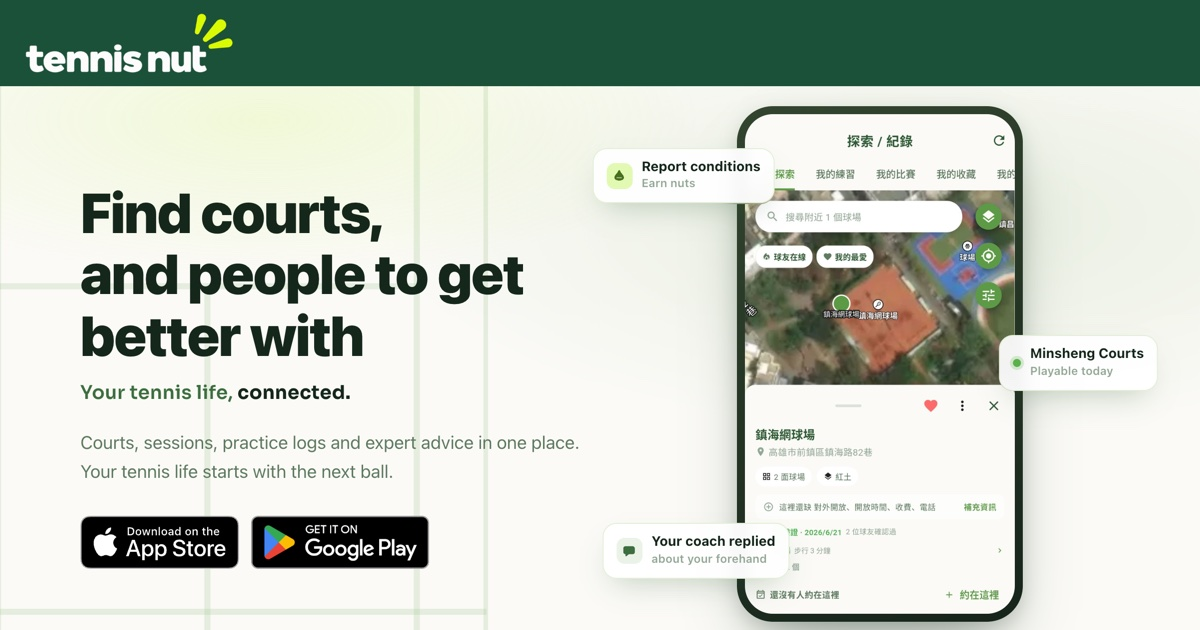
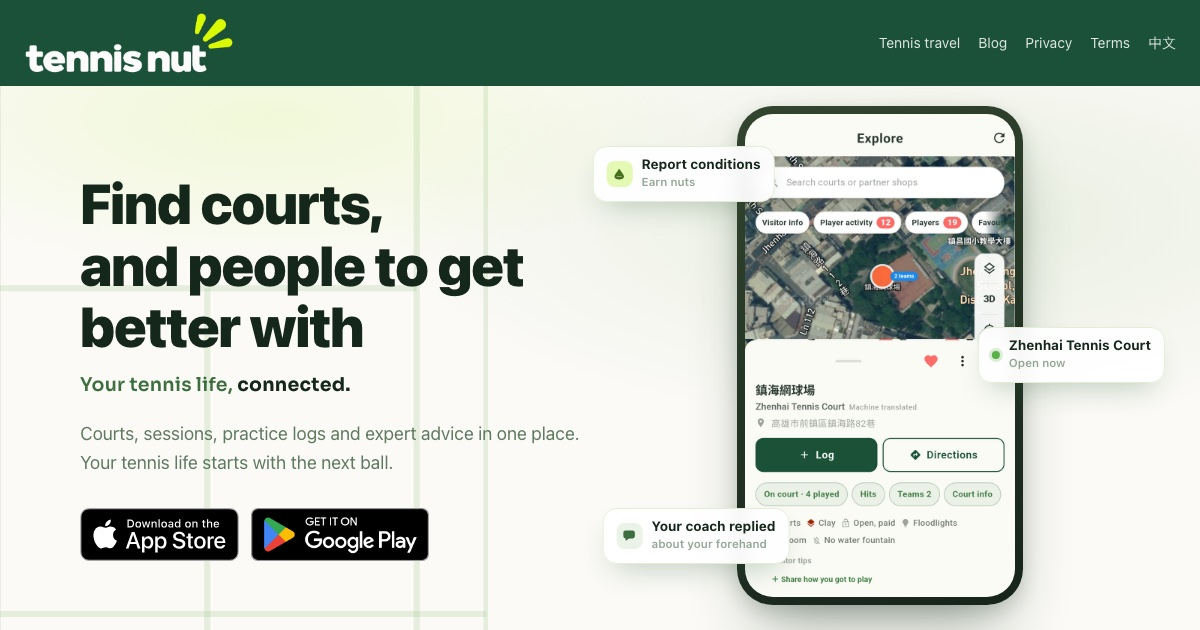
feat(site/en): 英文首頁與 Blog 的 App 截圖換成英文介面（首頁主圖、約球、專家諮詢、護照、沉浸模式、球袋、拍子時數、紀錄、挑戰）；教練中文回覆那張換成諮詢入口；分享縮圖重拍；英文 Blog 可有自己的 en.image
Claude-Session: https://claude.ai/code/session_01FhLZvZNjbSftcCKJHrQPMS

diff --git a/en/index.html b/en/index.html
@@ -1617,8 +1617,8 @@
 
         <div class="hero-device">
           <div class="phone">
-            <img src="/shot-court-map.jpg" width="669" height="1239"
-                 alt="The Tennis Nut court map: pins on satellite imagery, with one court opened — two clay courts, player-verified details, parking three minutes away" />
+            <img src="/shot-court-map-en.jpg" width="720" height="1288"
+                 alt="The Tennis Nut court map on aerial imagery, with Zhenhai Tennis Court opened: two clay courts, open to the public, floodlights, and how many players have been there" />
           </div>
 
           <div class="float f-nut">
@@ -1627,7 +1627,7 @@
           </div>
           <div class="float f-court">
             <span class="dot-live"></span>
-            <span class="tx"><b>Zhenhai Tennis Courts</b><i>Open now</i></span>
+            <span class="tx"><b>Zhenhai Tennis Court</b><i>Open now</i></span>
           </div>
           <div class="float f-coach">
             <span class="ic" aria-hidden="true"><svg><use href="#ic-chat" /></svg></span>
@@ -1882,7 +1882,7 @@
         <div class="show-phone">
           <div>
             <div class="phone">
-              <img src="/shot-hit-create.jpg" width="669" height="1228" loading="lazy"
+              <img src="/shot-hit-create-en.jpg" width="720" height="1327" loading="lazy"
                    alt="Posting a session: time, format, balls and who can see it, all settled before you send" />
             </div>
             <div class="show-cap">
@@ -1894,8 +1894,8 @@
 
         <div class="show-cards">
           <figure class="show-card">
-            <img src="/shot-coach-answer.jpg" width="669" height="486" loading="lazy"
-                 alt="A coach’s reply: generate racket speed through the rotational chain rather than moving the body forward; there is only one contact point that works" />
+            <img src="/shot-consult-en.jpg" width="720" height="487" loading="lazy"
+                 alt="Starting a consultation: pick tennis technique or tennis fitness, and an expert is assigned; an AI recap keeps the advice you got" />
             <figcaption class="show-cap">
               <b>Expert advice</b>
               <span>A written answer for your problem, not a canned tip</span>
@@ -1903,8 +1903,8 @@
           </figure>
 
           <figure class="show-card">
-            <img src="/shot-passport-stats.jpg" width="669" height="1130" loading="lazy"
-                 alt="Tennis stats: 26 practices, 28 hours, 5 matches, a 60% win rate, and court conquest progress" />
+            <img src="/shot-passport-stats-en.jpg" width="720" height="1040" loading="lazy"
+                 alt="The Tennis Nut player card with home court and playing style, above the tennis stats: practices, hours, matches and win rate" />
             <figcaption class="show-cap">
               <b>Passport · Records</b>
               <span>Practices, matches and every court you have conquered</span>

diff --git a/en/blog/2690.html b/en/blog/2690.html
@@ -9,7 +9,7 @@
   <meta property="og:title" content="v1.31 · Immersive mode, gear photos, and hours on every racket · Tennis Nut" />
   <meta property="og:description" content="This post covers both 1.29 and 1.31. See nearby players in immersive mode, turn racket and shoe photos into catalog shots, and keep the racket, strings and tension with every practice and match." />
   <meta property="og:url" content="https://tennisnut.kxon.net/en/blog/2690" />
-  <meta property="og:image" content="https://tennisnut.kxon.net/shot-2690-bag.jpg" />
+  <meta property="og:image" content="https://tennisnut.kxon.net/shot-2690-bag-en.jpg" />
   <meta property="og:image:width" content="1200" />
   <meta property="og:image:height" content="630" />
   <meta name="twitter:card" content="summary_large_image" />
@@ -144,7 +144,7 @@
         <h2>Immersive mode</h2>
         <p>A 3D map from the center button, showing nearby players who have it open. Tap someone to add them, record your match or plan the next one.</p>
         <figure class="hl-shot">
-          <img src="/shot-2690-immersive.jpg" alt="Immersive mode" loading="lazy" />
+          <img src="/shot-2690-immersive-en.jpg" alt="Immersive mode" loading="lazy" />
 
         </figure>
       </div>
@@ -155,7 +155,7 @@
         <h2>Gear photos</h2>
         <p>Tap a card in your bag and choose Take a photo. About a minute later it becomes a clean catalog-style photo that friends see on your player card.</p>
         <figure class="hl-shot">
-          <img src="/shot-2690-bag.jpg" alt="Gear photos" loading="lazy" />
+          <img src="/shot-2690-bag-en.jpg" alt="Gear photos" loading="lazy" />
 
         </figure>
       </div>
@@ -166,7 +166,7 @@
         <h2>Hours on every racket</h2>
         <p>Practices and matches use your main racket and shoes, and keep the strings and tension you played with. Compare hours and wins for each string setup.</p>
         <figure class="hl-shot">
-          <img src="/shot-2690-racket-usage.jpg" alt="Hours on every racket" loading="lazy" />
+          <img src="/shot-2690-racket-usage-en.jpg" alt="Hours on every racket" loading="lazy" />
 
         </figure>
       </div>
@@ -179,7 +179,7 @@
 
 The tab bar now has Map and Records. Practices and matches share one timeline. Consultations moved to My consultations in your passport.</p>
         <figure class="hl-shot">
-          <img src="/shot-2690-records.jpg" alt="Records and consultations moved" loading="lazy" />
+          <img src="/shot-2690-records-en.jpg" alt="Records and consultations moved" loading="lazy" />
 
         </figure>
       </div>

diff --git a/en/blog/2760.html b/en/blog/2760.html
@@ -9,7 +9,7 @@
   <meta property="og:title" content="v1.35 · Challenge levels, Ask players, and free time that finds a match · Tennis Nut" />
   <meta property="og:description" content="Every challenge stage now shows its level, and when you finish with a partner they witness it and you both pass together. Add a question to a practice for friends and nearby players to answer. Weekly free time repeats on its own, and the app finds players whose time and level fit." />
   <meta property="og:url" content="https://tennisnut.kxon.net/en/blog/2760" />
-  <meta property="og:image" content="https://tennisnut.kxon.net/shot-2760-challenge.jpg" />
+  <meta property="og:image" content="https://tennisnut.kxon.net/shot-2760-challenge-en.jpg" />
   <meta property="og:image:width" content="1200" />
   <meta property="og:image:height" content="630" />
   <meta name="twitter:card" content="summary_large_image" />
@@ -152,7 +152,7 @@
 
 When you finish with a partner, they witness it and you both pass together; passing with different partners shows as ×N. Passing earns nuts, and jumping to a higher stage counts the ones below it too.</p>
         <figure class="hl-shot">
-          <img src="/shot-2760-challenge.jpg" alt="Rally challenge: a 3D animation of two players rallying, the rule, and five stages from 10 to 50 balls with their levels" loading="lazy" />
+          <img src="/shot-2760-challenge-en.jpg" alt="Rally challenge: a 3D animation of two players rallying, the rule, and five stages from 10 to 50 balls with their levels" loading="lazy" />
           <figcaption>Every challenge has an animation, and each stage shows its level.</figcaption>
         </figure>
       </div>
